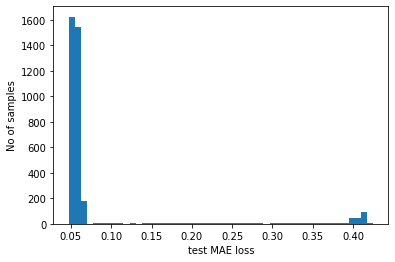
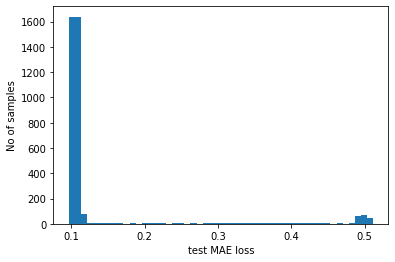
Update timeseries anomaly example

diff --git a/scripts/examples_master.py b/scripts/examples_master.py
@@ -26,7 +26,7 @@ EXAMPLES_MASTER = {
         },
         {
             'path': 'nlp/',
-            'title': 'Natural language processing',
+            'title': 'Natural Language Processing',
             'toc': True,
             'children': [
                 {
@@ -94,7 +94,7 @@ EXAMPLES_MASTER = {
         },
         {
             'path': 'rl/',
-            'title': 'Reinforcement learning',
+            'title': 'Reinforcement Learning',
             'toc': True,
             'children': [
                 # Will be autogenerated
@@ -102,7 +102,7 @@ EXAMPLES_MASTER = {
         },
         {
             'path': 'graph/',
-            'title': 'Graph data',
+            'title': 'Graph Data',
             'toc': True,
             'children': [
                 # Will be autogenerated
@@ -110,7 +110,7 @@ EXAMPLES_MASTER = {
         },
         {
             'path': 'keras_recipes/',
-            'title': 'Quick Keras recipes',
+            'title': 'Quick Keras Recipes',
             'toc': True,
             'children': [
                 # Will be autogenerated

diff --git a/examples/timeseries/timeseries_anomaly_detection.py b/examples/timeseries/timeseries_anomaly_detection.py
@@ -107,7 +107,7 @@ TIME_STEPS = 288
 # Generated training sequences for use in the model.
 def create_sequences(values, time_steps=TIME_STEPS):
     output = []
-    for i in range(len(values) - time_steps):
+    for i in range(len(values) - time_steps + 1):
         output.append(values[i : (i + time_steps)])
     return np.stack(output)
 

diff --git a/examples/timeseries/md/timeseries_anomaly_detection.md b/examples/timeseries/md/timeseries_anomaly_detection.md
@@ -156,7 +156,7 @@ TIME_STEPS = 288
 # Generated training sequences for use in the model.
 def create_sequences(values, time_steps=TIME_STEPS):
     output = []
-    for i in range(len(values) - time_steps):
+    for i in range(len(values) - time_steps + 1):
         output.append(values[i : (i + time_steps)])
     return np.stack(output)
 
@@ -167,7 +167,7 @@ print("Training input shape: ", x_train.shape)
 
 <div class="k-default-codeblock">
 ```
-Training input shape:  (3744, 288, 1)
+Training input shape:  (3745, 288, 1)
 
 ```
 </div>
@@ -207,6 +207,7 @@ model.summary()
 
 <div class="k-default-codeblock">
 ```
+WARNING:tensorflow:Please add `keras.layers.InputLayer` instead of `keras.Input` to Sequential model. `keras.Input` is intended to be used by Functional model.
 Model: "sequential"
 _________________________________________________________________
 Layer (type)                 Output Shape              Param #   
@@ -255,105 +256,35 @@ history = model.fit(
 <div class="k-default-codeblock">
 ```
 Epoch 1/50
-27/27 [==============================] - 2s 35ms/step - loss: 0.6599 - val_loss: 0.0711
+27/27 [==============================] - 2s 35ms/step - loss: 0.5868 - val_loss: 0.1225
 Epoch 2/50
-27/27 [==============================] - 1s 27ms/step - loss: 0.0772 - val_loss: 0.0397
+27/27 [==============================] - 1s 29ms/step - loss: 0.0882 - val_loss: 0.0404
 Epoch 3/50
-27/27 [==============================] - 1s 28ms/step - loss: 0.0591 - val_loss: 0.0376
+27/27 [==============================] - 1s 30ms/step - loss: 0.0594 - val_loss: 0.0359
 Epoch 4/50
-27/27 [==============================] - 1s 29ms/step - loss: 0.0518 - val_loss: 0.0332
+27/27 [==============================] - 1s 29ms/step - loss: 0.0486 - val_loss: 0.0287
 Epoch 5/50
-27/27 [==============================] - 1s 29ms/step - loss: 0.0461 - val_loss: 0.0299
+27/27 [==============================] - 1s 30ms/step - loss: 0.0398 - val_loss: 0.0231
 Epoch 6/50
-27/27 [==============================] - 1s 28ms/step - loss: 0.0411 - val_loss: 0.0268
+27/27 [==============================] - 1s 31ms/step - loss: 0.0337 - val_loss: 0.0208
 Epoch 7/50
-27/27 [==============================] - 1s 28ms/step - loss: 0.0370 - val_loss: 0.0249
+27/27 [==============================] - 1s 31ms/step - loss: 0.0299 - val_loss: 0.0182
 Epoch 8/50
-27/27 [==============================] - 1s 29ms/step - loss: 0.0338 - val_loss: 0.0234
+27/27 [==============================] - 1s 31ms/step - loss: 0.0271 - val_loss: 0.0187
 Epoch 9/50
-27/27 [==============================] - 1s 30ms/step - loss: 0.0314 - val_loss: 0.0225
+27/27 [==============================] - 1s 32ms/step - loss: 0.0251 - val_loss: 0.0190
 Epoch 10/50
-27/27 [==============================] - 1s 29ms/step - loss: 0.0293 - val_loss: 0.0220
+27/27 [==============================] - 1s 31ms/step - loss: 0.0235 - val_loss: 0.0179
 Epoch 11/50
-27/27 [==============================] - 1s 28ms/step - loss: 0.0275 - val_loss: 0.0209
+27/27 [==============================] - 1s 32ms/step - loss: 0.0224 - val_loss: 0.0189
 Epoch 12/50
-27/27 [==============================] - 1s 30ms/step - loss: 0.0258 - val_loss: 0.0204
+27/27 [==============================] - 1s 33ms/step - loss: 0.0214 - val_loss: 0.0199
 Epoch 13/50
-27/27 [==============================] - 1s 31ms/step - loss: 0.0243 - val_loss: 0.0203
+27/27 [==============================] - 1s 33ms/step - loss: 0.0206 - val_loss: 0.0194
 Epoch 14/50
-27/27 [==============================] - 1s 30ms/step - loss: 0.0229 - val_loss: 0.0198
+27/27 [==============================] - 1s 32ms/step - loss: 0.0199 - val_loss: 0.0208
 Epoch 15/50
-27/27 [==============================] - 1s 31ms/step - loss: 0.0218 - val_loss: 0.0192
-Epoch 16/50
-27/27 [==============================] - 1s 31ms/step - loss: 0.0208 - val_loss: 0.0175
-Epoch 17/50
-27/27 [==============================] - 1s 32ms/step - loss: 0.0197 - val_loss: 0.0174
-Epoch 18/50
-27/27 [==============================] - 1s 31ms/step - loss: 0.0189 - val_loss: 0.0158
-Epoch 19/50
-27/27 [==============================] - 1s 35ms/step - loss: 0.0181 - val_loss: 0.0148
-Epoch 20/50
-27/27 [==============================] - 1s 33ms/step - loss: 0.0174 - val_loss: 0.0144
-Epoch 21/50
-27/27 [==============================] - 1s 35ms/step - loss: 0.0167 - val_loss: 0.0148
-Epoch 22/50
-27/27 [==============================] - 1s 35ms/step - loss: 0.0161 - val_loss: 0.0137
-Epoch 23/50
-27/27 [==============================] - 1s 34ms/step - loss: 0.0155 - val_loss: 0.0135
-Epoch 24/50
-27/27 [==============================] - 1s 34ms/step - loss: 0.0150 - val_loss: 0.0128
-Epoch 25/50
-27/27 [==============================] - 1s 33ms/step - loss: 0.0146 - val_loss: 0.0130
-Epoch 26/50
-27/27 [==============================] - 1s 32ms/step - loss: 0.0141 - val_loss: 0.0118
-Epoch 27/50
-27/27 [==============================] - 1s 33ms/step - loss: 0.0137 - val_loss: 0.0113
-Epoch 28/50
-27/27 [==============================] - 1s 31ms/step - loss: 0.0133 - val_loss: 0.0111
-Epoch 29/50
-27/27 [==============================] - 1s 32ms/step - loss: 0.0128 - val_loss: 0.0113
-Epoch 30/50
-27/27 [==============================] - 1s 33ms/step - loss: 0.0124 - val_loss: 0.0104
-Epoch 31/50
-27/27 [==============================] - 1s 33ms/step - loss: 0.0121 - val_loss: 0.0091
-Epoch 32/50
-27/27 [==============================] - 1s 33ms/step - loss: 0.0117 - val_loss: 0.0092
-Epoch 33/50
-27/27 [==============================] - 1s 34ms/step - loss: 0.0112 - val_loss: 0.0091
-Epoch 34/50
-27/27 [==============================] - 1s 37ms/step - loss: 0.0109 - val_loss: 0.0085
-Epoch 35/50
-27/27 [==============================] - 1s 37ms/step - loss: 0.0105 - val_loss: 0.0081
-Epoch 36/50
-27/27 [==============================] - 1s 37ms/step - loss: 0.0101 - val_loss: 0.0074
-Epoch 37/50
-27/27 [==============================] - 1s 36ms/step - loss: 0.0098 - val_loss: 0.0076
-Epoch 38/50
-27/27 [==============================] - 1s 38ms/step - loss: 0.0095 - val_loss: 0.0074
-Epoch 39/50
-27/27 [==============================] - 1s 39ms/step - loss: 0.0092 - val_loss: 0.0070
-Epoch 40/50
-27/27 [==============================] - 1s 40ms/step - loss: 0.0089 - val_loss: 0.0069
-Epoch 41/50
-27/27 [==============================] - 1s 38ms/step - loss: 0.0086 - val_loss: 0.0068
-Epoch 42/50
-27/27 [==============================] - 1s 39ms/step - loss: 0.0084 - val_loss: 0.0063
-Epoch 43/50
-27/27 [==============================] - 1s 38ms/step - loss: 0.0082 - val_loss: 0.0061
-Epoch 44/50
-27/27 [==============================] - 1s 41ms/step - loss: 0.0079 - val_loss: 0.0057
-Epoch 45/50
-27/27 [==============================] - 1s 40ms/step - loss: 0.0077 - val_loss: 0.0055
-Epoch 46/50
-27/27 [==============================] - 1s 42ms/step - loss: 0.0075 - val_loss: 0.0055
-Epoch 47/50
-27/27 [==============================] - 1s 39ms/step - loss: 0.0074 - val_loss: 0.0051
-Epoch 48/50
-27/27 [==============================] - 1s 36ms/step - loss: 0.0072 - val_loss: 0.0054
-Epoch 49/50
-27/27 [==============================] - 1s 40ms/step - loss: 0.0071 - val_loss: 0.0053
-Epoch 50/50
-27/27 [==============================] - 1s 41ms/step - loss: 0.0070 - val_loss: 0.0052
+27/27 [==============================] - 1s 35ms/step - loss: 0.0192 - val_loss: 0.0204
 
 ```
 </div>
@@ -409,7 +340,7 @@ print("Reconstruction error threshold: ", threshold)
 
 <div class="k-default-codeblock">
 ```
-Reconstruction error threshold:  0.06655808810755175
+Reconstruction error threshold:  0.1195600905852785
 
 ```
 </div>
@@ -434,6 +365,7 @@ plt.show()
 
 
 ```python
+
 df_test_value = (df_daily_jumpsup - training_mean) / training_std
 fig, ax = plt.subplots()
 df_test_value.plot(legend=False, ax=ax)
@@ -465,7 +397,7 @@ print("Indices of anomaly samples: ", np.where(anomalies))
 
 <div class="k-default-codeblock">
 ```
-Test input shape:  (3744, 288, 1)
+Test input shape:  (3745, 288, 1)
 
 ```
 </div>
@@ -474,9 +406,8 @@ Test input shape:  (3744, 288, 1)
 
 <div class="k-default-codeblock">
 ```
-Number of anomaly samples:  411
-Indices of anomaly samples:  (array([ 217,  774,  790,  793,  794, 1654, 1942, 1943, 1944, 1945, 1948,
-       2140, 2519, 2521, 2699, 2701, 2702, 2703, 2704, 2705, 2706, 2707,
+Number of anomaly samples:  399
+Indices of anomaly samples:  (array([ 789, 1653, 1654, 1941, 2697, 2702, 2703, 2704, 2705, 2706, 2707,
        2708, 2709, 2710, 2711, 2712, 2713, 2714, 2715, 2716, 2717, 2718,
        2719, 2720, 2721, 2722, 2723, 2724, 2725, 2726, 2727, 2728, 2729,
        2730, 2731, 2732, 2733, 2734, 2735, 2736, 2737, 2738, 2739, 2740,
@@ -512,7 +443,7 @@ Indices of anomaly samples:  (array([ 217,  774,  790,  793,  794, 1654, 1942, 1
        3060, 3061, 3062, 3063, 3064, 3065, 3066, 3067, 3068, 3069, 3070,
        3071, 3072, 3073, 3074, 3075, 3076, 3077, 3078, 3079, 3080, 3081,
        3082, 3083, 3084, 3085, 3086, 3087, 3088, 3089, 3090, 3091, 3092,
-       3093, 3094, 3095, 3097]),)
+       3093, 3094, 3095]),)
 
 ```
 </div>
